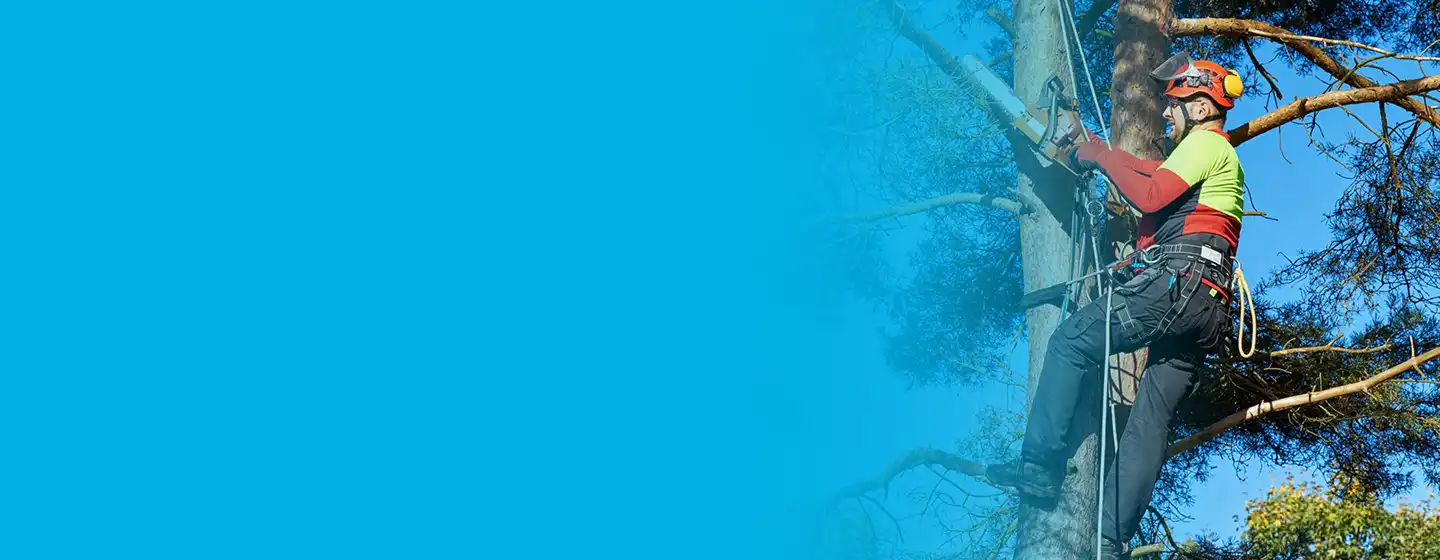
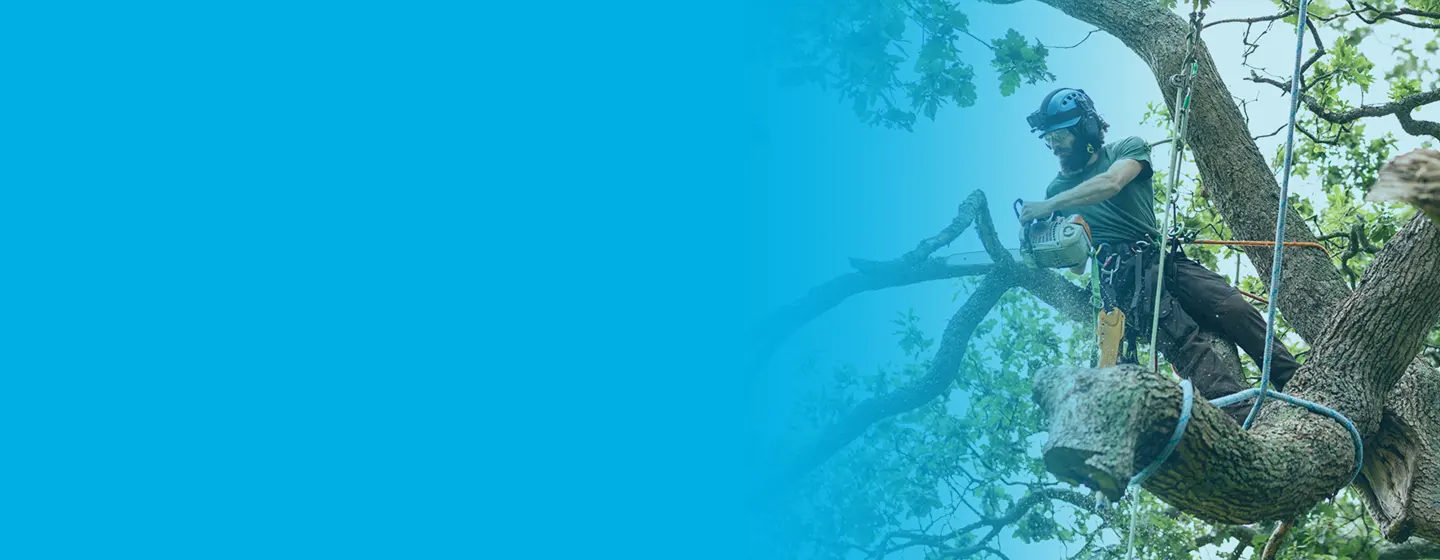
update-tree-surgeon-near-me-page

diff --git a/src/app/component/Nearme/PopularJobNearMe.jsx b/src/app/component/Nearme/PopularJobNearMe.jsx
@@ -7,7 +7,7 @@ import Paragraph1 from "../UI/Typography/Paragraph1";
 import LogoIcon from "../common/icons/HomePageIcons/LogoIcon";
 import Paragraph from "../UI/Typography/Paragraph";
 
-export default function PopularJobNearMe({ services = [] }) {
+export default function PopularJobNearMe({ services = [], popularImage = "" }) {
   return (
     <WrapperBGWidth>
       {/* <div className="w-full max-w-[1200px] mx-auto aspect-[1200/590] relative">
@@ -28,8 +28,11 @@ export default function PopularJobNearMe({ services = [] }) {
 
           {/* 2⃣ Normal content layer */}
           <div className="relative z-10 h-full pt-[30px] md:px-8 xl:px-15 flex flex-col md:justify-center md:max-w-[70%]">
-            <H2 className="text-white mb-4 md:mb-0 md:pb-4 xl:pb-[35px]">Popular Jobs.</H2>
-            <Paragraph variant="secondary"
+            <H2 className="text-white mb-4 md:mb-0 md:pb-4 xl:pb-[35px]">
+              Popular Jobs.
+            </H2>
+            <Paragraph
+              variant="secondary"
               style={{ textShadow: "0px 3.65px 3.65px #00000026" }}
               className=" sm:max-w-full mb-5 md:mb-0 text-white  pb-4 xl:pb-[43px] text-shadow-[0_0_4px_rgba(0,0,0,0.25)]"
             >
@@ -37,14 +40,18 @@ export default function PopularJobNearMe({ services = [] }) {
             </Paragraph>
             <div className=" flex flex-wrap gap-2 xl:gap-5 md:mb-4 md:max-w-[400px] xl:max-w-full">
               {services.map((service) => (
-                <ServicesButton mobileBorder="border-2" key={service} service={service} />
+                <ServicesButton
+                  mobileBorder="border-2"
+                  key={service}
+                  service={service}
+                />
               ))}
             </div>
           </div>
 
           {/* 3⃣ Floating image */}
           <Image
-            src="/nearme/treeSurgeonNearmeRounded.png"
+            src={popularImage}
             alt="tree surgeon near me"
             width={400}
             height={600}

diff --git a/src/app/component/Nearme/TreeSurgeon/TreeSurgeonData.js b/src/app/component/Nearme/TreeSurgeon/TreeSurgeonData.js
@@ -1,7 +1,7 @@
 export const QUESTION_AND_ABOUT_SERVICE = [
   {
     type: "image",
-    src: "/nearme/treesurgery.webp",
+    src: "/nearme/treesurgery1.webp",
     alt: "A tree surgeon climbing to the top of a tree with chainsaw in hand",
     marginBottom: true,
   },
@@ -26,7 +26,7 @@ export const QUESTION_AND_ABOUT_SERVICE = [
   },
   {
     type: "image",
-    src: "/nearme/sergeondo.webp",
+    src: "/nearme/treesurgery.webp",
     alt: "a tree surgeon performing some crown reduction on a tree",
     marginBottom: true,
     // marginTop:true
@@ -113,7 +113,7 @@ export const QUESTION_AND_ABOUT_SERVICE = [
   },
   {
     type: "image",
-    src: "/nearme/surgeonPick.webp",
+    src: "/nearme/sergeondo.webp",
     alt: "a tree surgeon hanging from a tree whilst pressing buttons on his chainsaw",
     marginTop: true,
     marginBottom: true,

diff --git a/src/app/component/Nearme/HeroSectionNearMe.jsx b/src/app/component/Nearme/HeroSectionNearMe.jsx
@@ -25,7 +25,7 @@ function HeroSectionNearMe({
 }) {
   return (
     <>
-      <WrapperBGWidth className="relative">
+      <WrapperBGWidth className="relative" background={'#00afe3'}>
         <div className="absolute inset-0 md:h-[450px] lg:h-[560px] max-h-[560px]  hidden md:block">
           <Image
             src={bannerImage}
@@ -34,7 +34,7 @@ function HeroSectionNearMe({
             priority={true}
             fetchPriority="high"
             quality={75}
-            className="h-10 w-10 md:h-[540px] min-[900px]:h-[400px] lg:h-[560px] md:max-w-[1536px]"
+            className="h-10 w-10 md:h-[540px] min-[900px]:h-[400px] lg:h-[560px] md:max-w-[1536px] mx-auto"
             sizes="(min-width: 768px) 100vw, 0px"
           />
         </div>

diff --git a/src/app/component/Nearme/TreeSurgeon/TreeSurgeon.jsx b/src/app/component/Nearme/TreeSurgeon/TreeSurgeon.jsx
@@ -61,7 +61,7 @@ function TreeSurgeon() {
         vettedHeading2="trust"
         breadcrumb={BREADCRUM_DATA_TREESURGEON}
       />
-      <PopularJobNearMe services={POPULAR_SERVICES} />
+      <PopularJobNearMe services={POPULAR_SERVICES} popularImage="/nearme/treeSurgeonNearmeRounded.webp" />
       <HowItWorkNearMe />
       {/* <Feature /> */}
       <HireRelatedToServiceNearMe
